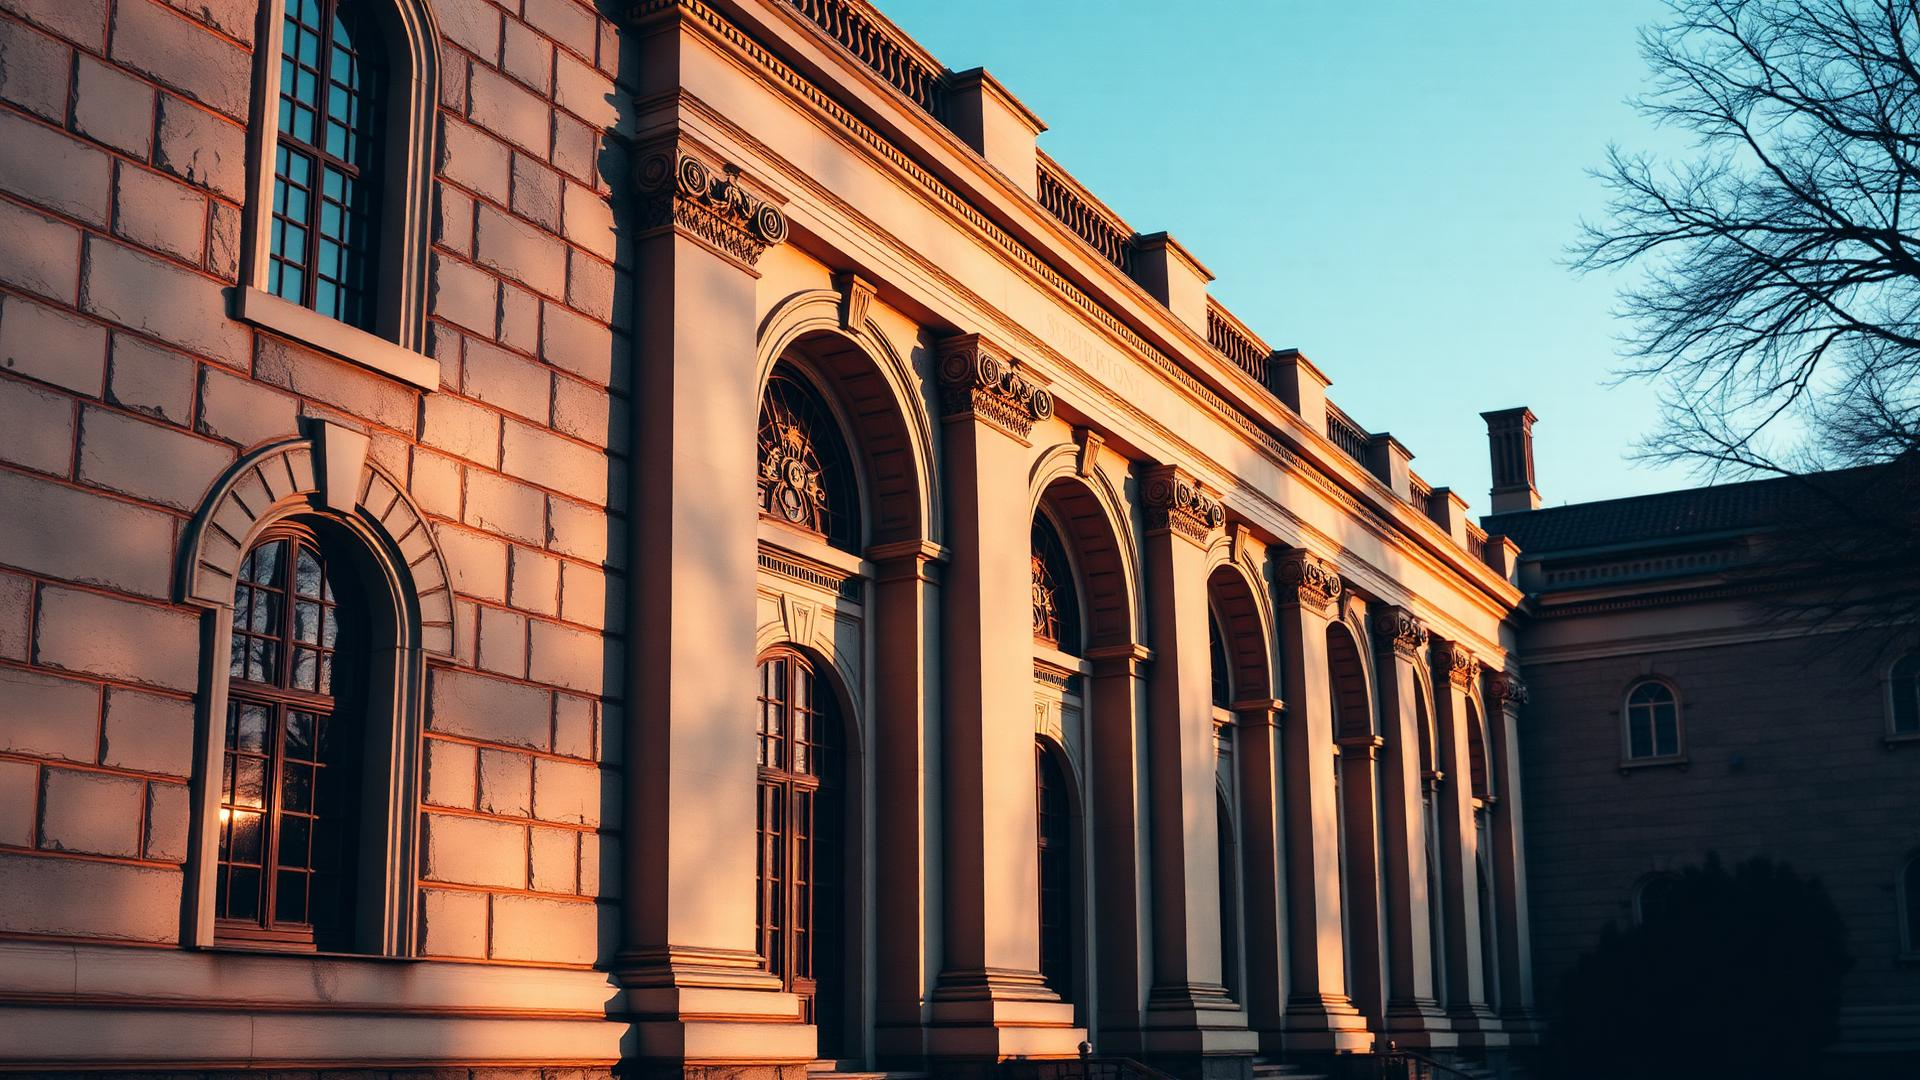
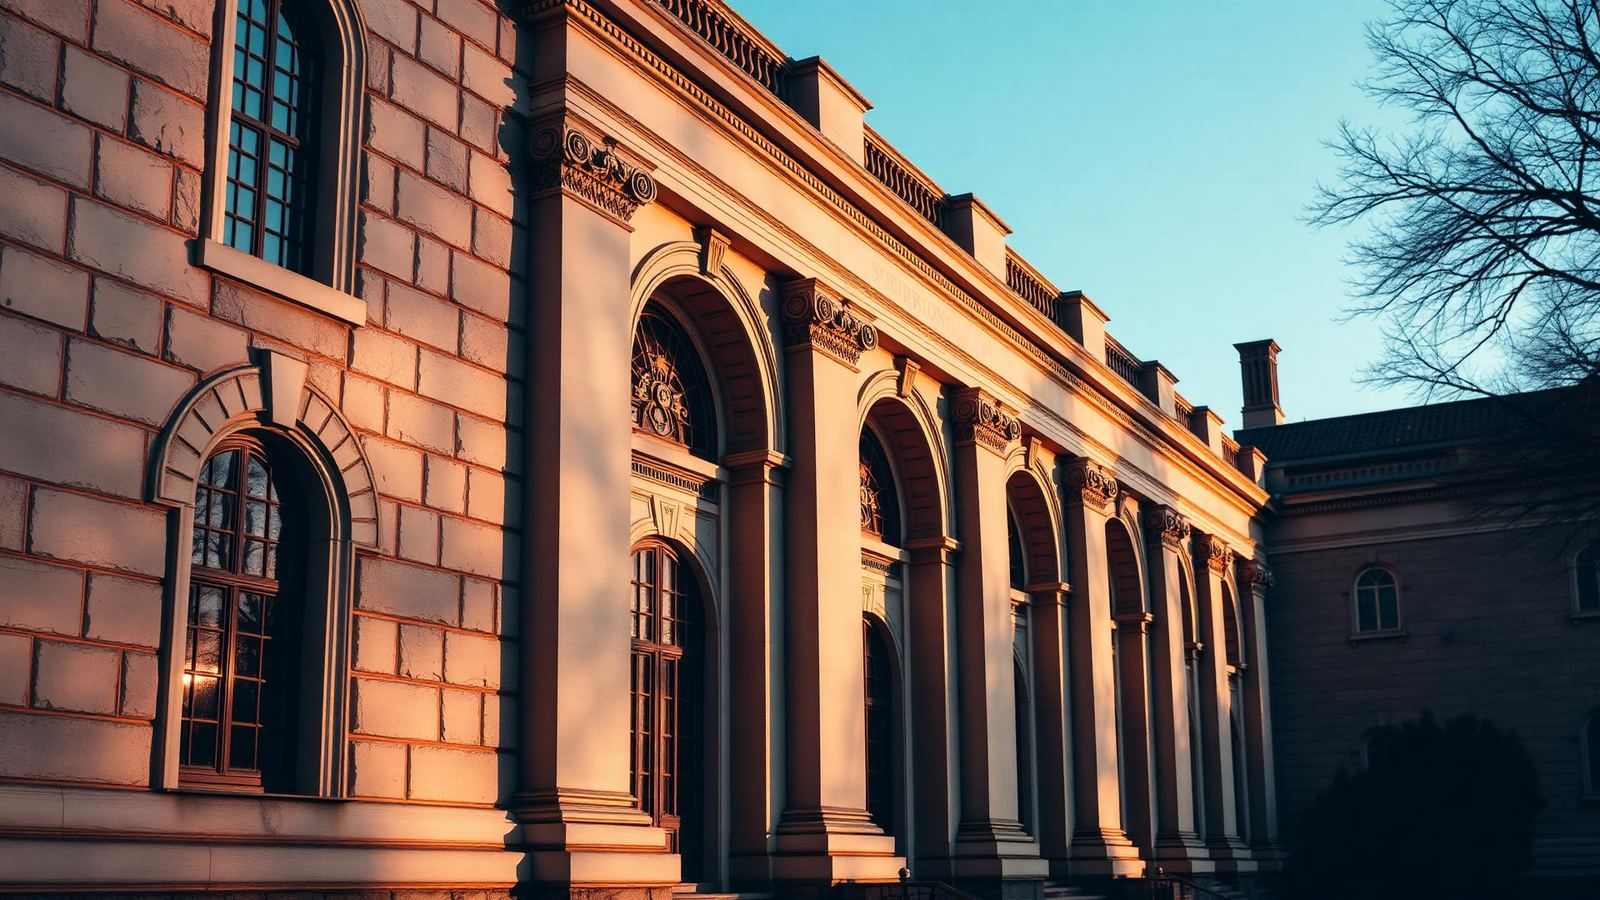
Use system fonts and shrink hero image for faster loads.

diff --git a/index.html b/index.html
@@ -6,13 +6,8 @@
   <title>KU Lighthouse — Funding overview</title>
   <meta name="description" content="Search grants, programmes and support for founders and researchers." />
   <link rel="icon" href="favicon.svg" type="image/svg+xml" />
-  <link rel="preload" href="assets/hero-university.webp" as="image" type="image/webp" />
+  <link rel="preload" href="assets/hero-university.webp" as="image" type="image/webp" fetchpriority="high" />
   <link rel="preload" href="data/programmes.json" as="fetch" crossorigin="anonymous" />
-  <link rel="preconnect" href="https://fonts.googleapis.com" />
-  <link rel="preconnect" href="https://fonts.gstatic.com" crossorigin />
-  <link rel="preload" as="style" href="https://fonts.googleapis.com/css2?family=Open+Sans:wght@400;600&display=swap" />
-  <link rel="stylesheet" href="https://fonts.googleapis.com/css2?family=Open+Sans:wght@400;600&display=swap" media="print" onload="this.media='all'" />
-  <noscript><link rel="stylesheet" href="https://fonts.googleapis.com/css2?family=Open+Sans:wght@400;600&display=swap" /></noscript>
   <link rel="stylesheet" href="styles.css" />
 </head>
 <body class="page-landing">

diff --git a/styles.css b/styles.css
@@ -13,8 +13,7 @@
    - Tables have no fill. The guide's full grid in the text colour was too hard
      over this much copy, so the results table keeps light blue horizontal rules
      only and separates columns with spacing.
-   - Type is Open Sans: Semibold caps for headings, Regular caps for sub-headings,
-     Regular sentence case for body. */
+   - Type uses system UI fonts for fast load (Open Sans was the original KU INNO guide choice). */
 :root {
   --red-orange: #db3b0a;
   --light-blue: #b7d7de;
@@ -28,7 +27,7 @@
   /* Light blue reads as a quiet rule on champagne, so the results table can keep
      its structure without a hard dark grid. */
   --line: var(--light-blue);
-  --font: "Open Sans", system-ui, -apple-system, sans-serif;
+  --font: system-ui, -apple-system, "Segoe UI", Roboto, "Helvetica Neue", Arial, sans-serif;
 }
 
 * { box-sizing: border-box; }

diff --git a/results.html b/results.html
@@ -6,11 +6,6 @@
   <title>Funding overview — KU Lighthouse</title>
   <link rel="icon" href="favicon.svg" type="image/svg+xml" />
   <link rel="preload" href="data/programmes.json" as="fetch" crossorigin="anonymous" />
-  <link rel="preconnect" href="https://fonts.googleapis.com" />
-  <link rel="preconnect" href="https://fonts.gstatic.com" crossorigin />
-  <link rel="preload" as="style" href="https://fonts.googleapis.com/css2?family=Open+Sans:wght@400;600&display=swap" />
-  <link rel="stylesheet" href="https://fonts.googleapis.com/css2?family=Open+Sans:wght@400;600&display=swap" media="print" onload="this.media='all'" />
-  <noscript><link rel="stylesheet" href="https://fonts.googleapis.com/css2?family=Open+Sans:wght@400;600&display=swap" /></noscript>
   <link rel="stylesheet" href="styles.css" />
 </head>
 <body class="page-results">
